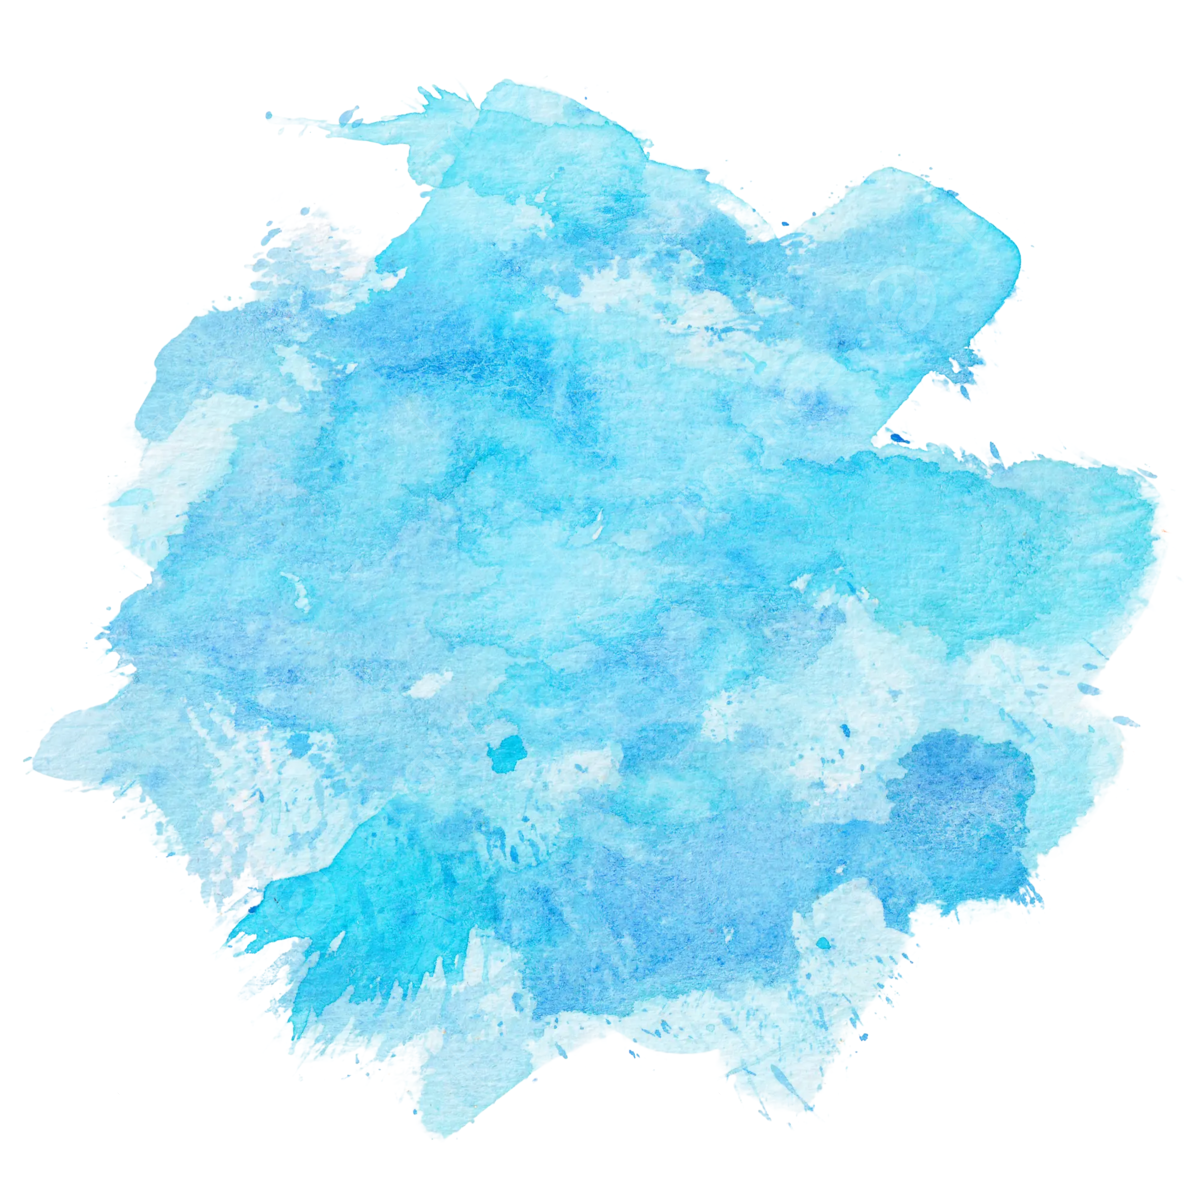
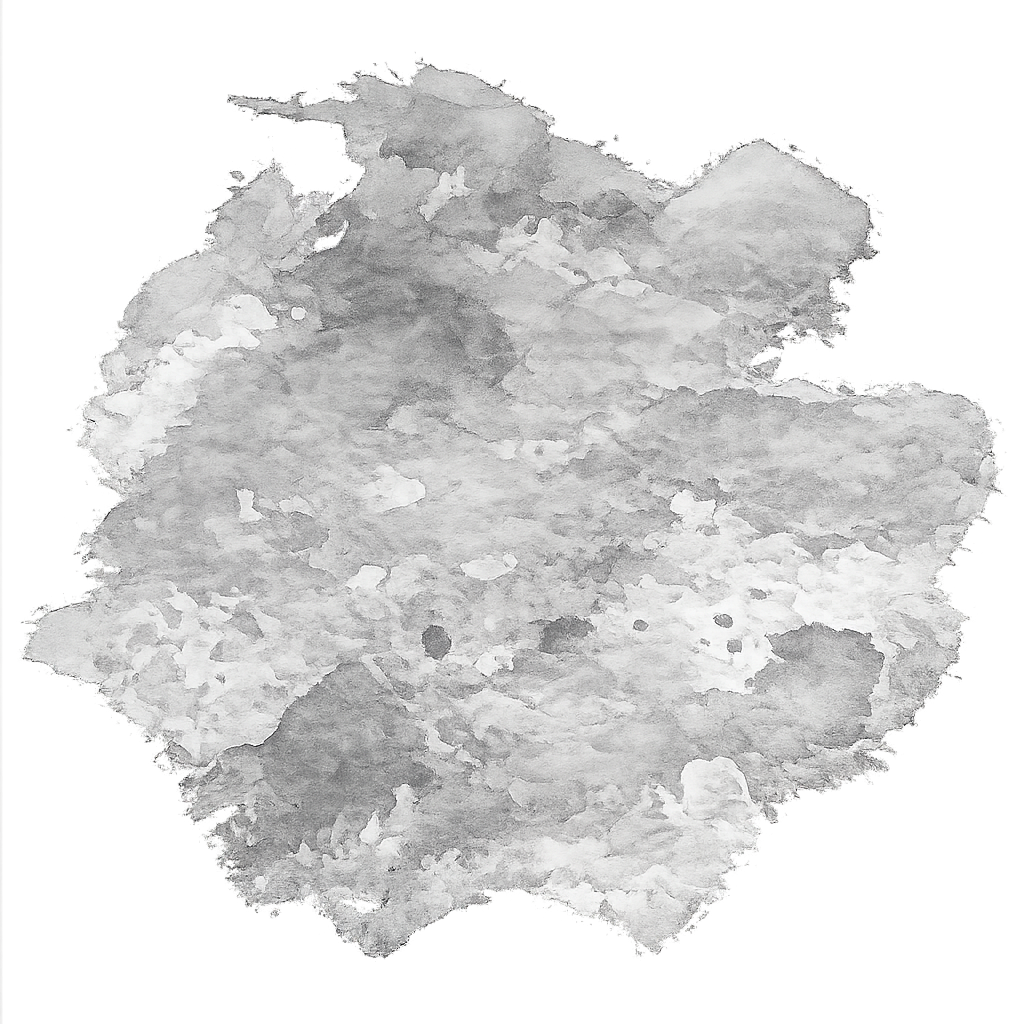
ini tampilan aja

diff --git a/setting.css b/setting.css
@@ -1,0 +1,278 @@
+html,
+body {
+    margin: 0;
+    padding: 0;
+    width: 100%;
+    height: 100vh;
+    overflow-x: hidden;
+    scrollbar-width: none;
+    -ms-overflow-style: none;
+    font-family: 'Montserrat', system-ui, -apple-system, BlinkMacSystemFont, 'Segoe UI', Roboto, sans-serif;
+    -webkit-font-smoothing: antialiased;
+    -moz-osx-font-smoothing: grayscale;
+    display: flex;
+    justify-content: center;
+    align-items: center;
+}
+
+.container {
+    width: min(100%, 900px);
+    margin: 0 auto;
+    min-height: calc(100vh * 0.70);
+
+    box-sizing: border-box;
+    border-radius: 10px;
+    box-shadow: 0 4px 30px rgb(0 0 0 / 33%);
+
+    background: rgba(255, 255, 255, 0.85);
+
+    display: flex;
+    justify-content: center;
+    align-items: stretch;
+}
+
+.from {
+    width: 100%;
+    min-height: 100%;
+    padding: 15px;
+    background: rgba(255, 255, 255, 0.28);
+    backdrop-filter: blur(6.9px);
+    border-radius: 10px;
+}
+
+.profile-container {
+    position: relative;
+    width: 160px;
+    height: 160px;
+}
+
+.profile-avatar {
+    width: 100%;
+    height: 100%;
+    border-radius: 50%;
+    display: flex;
+    align-items: center;
+    justify-content: center;
+    overflow: hidden;
+    position: relative;
+}
+
+/* gambar profile */
+.profile-img {
+    width: 100%;
+    height: 100%;
+    object-fit: cover;
+}
+
+/* huruf default */
+.profile-initial {
+    color: #ffffff;
+    font-size: 60px;
+    font-weight: 600;
+    text-transform: uppercase;
+}
+
+/* icon kamera */
+.camera-icon-wrapper {
+    position: absolute;
+    bottom: 10px;
+    right: 10px;
+    width: 45px;
+    height: 45px;
+    background-color: #2f2f2f;
+    border-radius: 50%;
+    display: flex;
+    align-items: center;
+    justify-content: center;
+    cursor: pointer;
+    box-shadow: 0 4px 10px rgba(0, 0, 0, 0.3);
+    transition: 0.3s;
+}
+
+.camera-icon-wrapper:hover {
+    transform: scale(1.1);
+}
+
+.camera-icon {
+    width: 22px;
+    height: 22px;
+    fill: #ffffff;
+}
+
+.file-input {
+    display: none;
+}
+
+.dropdown-wrapper {
+    box-sizing: border-box;
+    width: 100%;
+}
+
+.dropdown-btn {
+    gap: 10px;
+    background-color: transparent;
+    color: #000;
+    border: none;
+    cursor: pointer;
+    display: flex;
+    justify-content: space-between;
+    align-items: center;
+    transition: 0.3s;
+    font-weight: bold;
+    position: relative;
+    overflow: visible;
+}
+
+.dropdown-btn:hover {
+    z-index: 10;
+    transform: translateY(-3px);
+    box-shadow: 0 2px 8px rgba(0, 0, 0, 0.12),
+        0 8px 20px rgba(0, 0, 0, 0.10);
+    transition: transform 0.25s ease, box-shadow 0.25s ease;
+}
+
+.dropdown-btn::before,
+.dropdown-btn::after {
+    content: "";
+    position: absolute;
+    left: 0;
+    width: 100%;
+    height: 2px;
+    background-color: #d10000;
+    z-index: 20;
+    pointer-events: none;
+    opacity: 0;
+}
+
+.dropdown-btn::before {
+    top: -6px;
+}
+
+.dropdown-btn::after {
+    bottom: -6px;
+}
+
+.dropdown-btn:hover::before {
+    animation: lineTopLeftFade 0.7s ease forwards;
+}
+
+.dropdown-btn:hover::after {
+    animation: lineBottomRightFade 0.7s ease forwards;
+}
+
+@keyframes lineTopLeftFade {
+    0% {
+        transform: translateX(30%);
+        opacity: 0;
+    }
+
+    40% {
+        opacity: 1;
+    }
+
+    100% {
+        transform: translateX(0);
+        opacity: 0;
+    }
+}
+
+@keyframes lineBottomRightFade {
+    0% {
+        transform: translateX(-30%);
+        opacity: 0;
+    }
+
+    40% {
+        opacity: 1;
+    }
+
+    100% {
+        transform: translateX(0);
+        opacity: 0;
+    }
+}
+
+#arrowIcon {
+    font-size: 18px;
+    transition: transform 0.3s ease;
+}
+
+.dropdown-content {
+    max-height: 0;
+    overflow: hidden;
+    transition: max-height 0.4s ease, padding 0.3s ease;
+    border-radius: 8px;
+    margin-top: 8px;
+    padding: 0 15px;
+    width: 100%;
+    box-sizing: border-box;
+}
+
+.dropdown-content.active {
+    max-height: 400px;
+    padding: 15px;
+}
+
+.form-group {
+    margin-bottom: 12px;
+    width: 100%;
+}
+
+.form-group label {
+    display: block;
+    font-size: 15px;
+    margin-bottom: 5px;
+}
+
+.input-wrapper {
+    display: flex;
+    align-items: center;
+    border: 1px solid #ccc;
+    border-radius: 5px;
+    padding: 0 10px;
+    box-sizing: border-box;
+    background: #f3f3f3;
+    transition: 0.3s;
+    width: 100%;
+}
+
+.input-wrapper:focus-within {
+    border-color: #DC0000;
+    box-shadow: 0 0 0 2px rgba(220, 0, 0, 0.1);
+}
+
+.input-icon {
+    font-size: 18px;
+    color: #000;
+}
+
+.input-divider {
+    width: 2px;
+    height: 20px;
+    background: #000;
+    margin: 0 10px;
+}
+
+.input-wrapper .form-input {
+    width: 100%;
+    border: none;
+    padding: 10px 0;
+    outline: none;
+    box-sizing: border-box;
+    background: transparent;
+}
+
+.submit-btn {
+    width: 100%;
+    padding: 10px;
+    background-color: #DC0000;
+    color: white;
+    border: none;
+    border-radius: 6px;
+    cursor: pointer;
+    transition: 0.3s;
+}
+
+.submit-btn:hover {
+    background-color: #b80000;
+}

diff --git a/setting.html b/setting.html
@@ -1,0 +1,94 @@
+<!DOCTYPE html>
+<html lang="en">
+
+<head>
+    <meta charset="UTF-8">
+    <meta name="viewport" content="width=device-width, initial-scale=1.0">
+    <link rel="preconnect" href="https://fonts.googleapis.com">
+    <link rel="preconnect" href="https://fonts.gstatic.com" crossorigin>
+    <link href="https://fonts.googleapis.com/css2?family=Montserrat:wght@300;400;500;600;700&display=swap"
+        rel="stylesheet">
+    <link href="https://cdn.jsdelivr.net/npm/bootstrap-icons/font/bootstrap-icons.css" rel="stylesheet">
+    <link rel="stylesheet" href="setting.css">
+    <title>Setting</title>
+</head>
+
+<body>
+    <div class="container">
+        <div class="from">
+            <center>
+                <div class="profile-container">
+                    <div class="profile-avatar">
+                        <img src="img/OIP.webp" alt="Profile" class="profile-img" id="profilePreview">
+                    </div>
+
+                    <label for="uploadPhoto" class="camera-icon-wrapper">
+                        <svg viewBox="0 0 24 24" class="camera-icon">
+                            <path d="M9 3L7.17 5H4a2 2 0 0 0-2 2v11a2 2 0 0 0 2 
+                     2h16a2 2 0 0 0 2-2V7a2 2 0 0 0-2-2h-3.17L15 
+                     3H9zm3 15a5 5 0 1 1 0-10 5 5 0 0 1 0 10z" />
+                        </svg>
+                    </label>
+
+                    <input type="file" id="uploadPhoto" class="file-input" accept="image/*">
+                </div>
+            </center>
+            <div class="password-header">
+                <p class="account-info">tipalsyah_ • E-paper Lampost</p>
+
+                <h2 class="password-title">Ubah kata sandi</h2>
+
+                <p class="password-description">
+                    Kata sandi Anda harus paling tidak 6 karakter dan
+                    harus menyertakan kombinasi angka, huruf, dan
+                    karakter khusus (!$@%).
+                </p>
+            </div>
+            <div class="dropdown-wrapper">
+                <button class="dropdown-btn" onclick="toggleDropdown()">
+                    <i class="bi bi-arrow-bar-down" id="arrowIcon"></i>
+                    <h3>Ubah password</h3>
+                </button>
+                <div class="dropdown-content" id="dropdownForm">
+                    <div class="form-group">
+                        <label>Password Baru</label>
+                        <div class="input-wrapper">
+                            <i class="bi bi-lock-fill input-icon"></i>
+                            <span class="input-divider"></span>
+                            <input type="password" class="form-input" placeholder="Masukkan password baru">
+                        </div>
+                    </div>
+
+                    <div class="form-group">
+                        <label>Konfirmasi Password</label>
+                        <div class="input-wrapper">
+                            <i class="bi bi-lock-fill input-icon"></i>
+                            <span class="input-divider"></span>
+                            <input type="password" class="form-input" placeholder="Ulangi password">
+                        </div>
+                    </div>
+                    <button type="submit" class="submit-btn">
+                        Simpan
+                    </button>
+                </div>
+            </div>
+        </div>
+        <script>
+            function toggleDropdown() {
+                const dropdown = document.getElementById("dropdownForm");
+                const arrow = document.getElementById("arrowIcon");
+
+                dropdown.classList.toggle("active");
+
+                if (dropdown.classList.contains("active")) {
+                    arrow.classList.remove("bi-arrow-bar-down");
+                    arrow.classList.add("bi-arrow-bar-up");
+                } else {
+                    arrow.classList.remove("bi-arrow-bar-up");
+                    arrow.classList.add("bi-arrow-bar-down");
+                }
+            }
+        </script>
+</body>
+
+</html>
